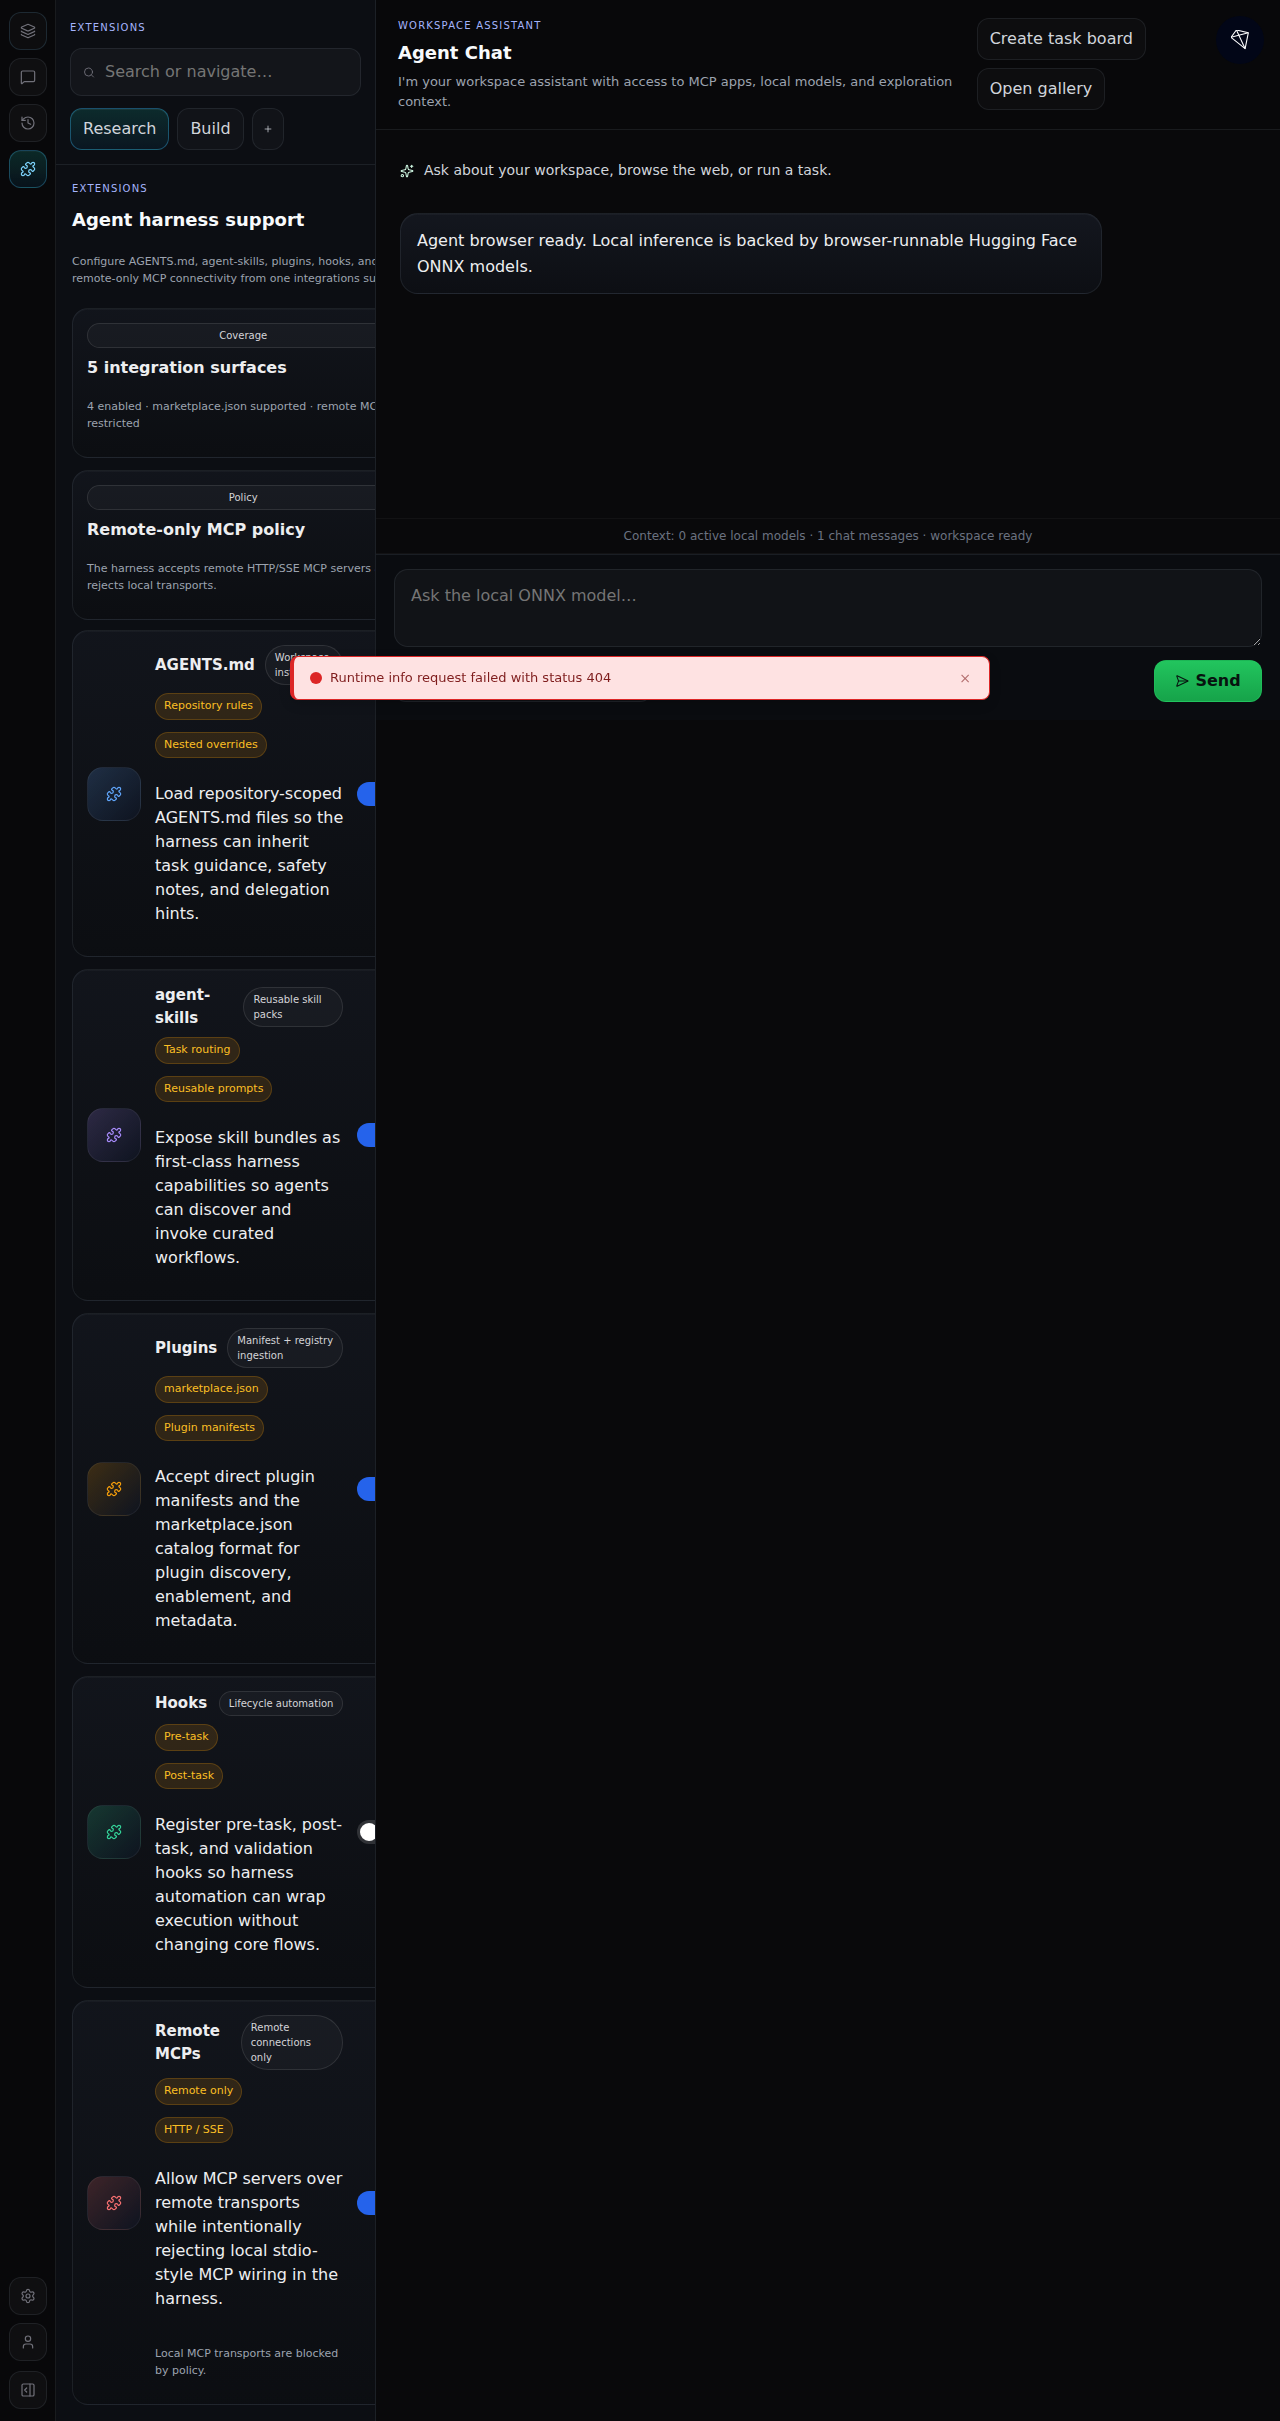
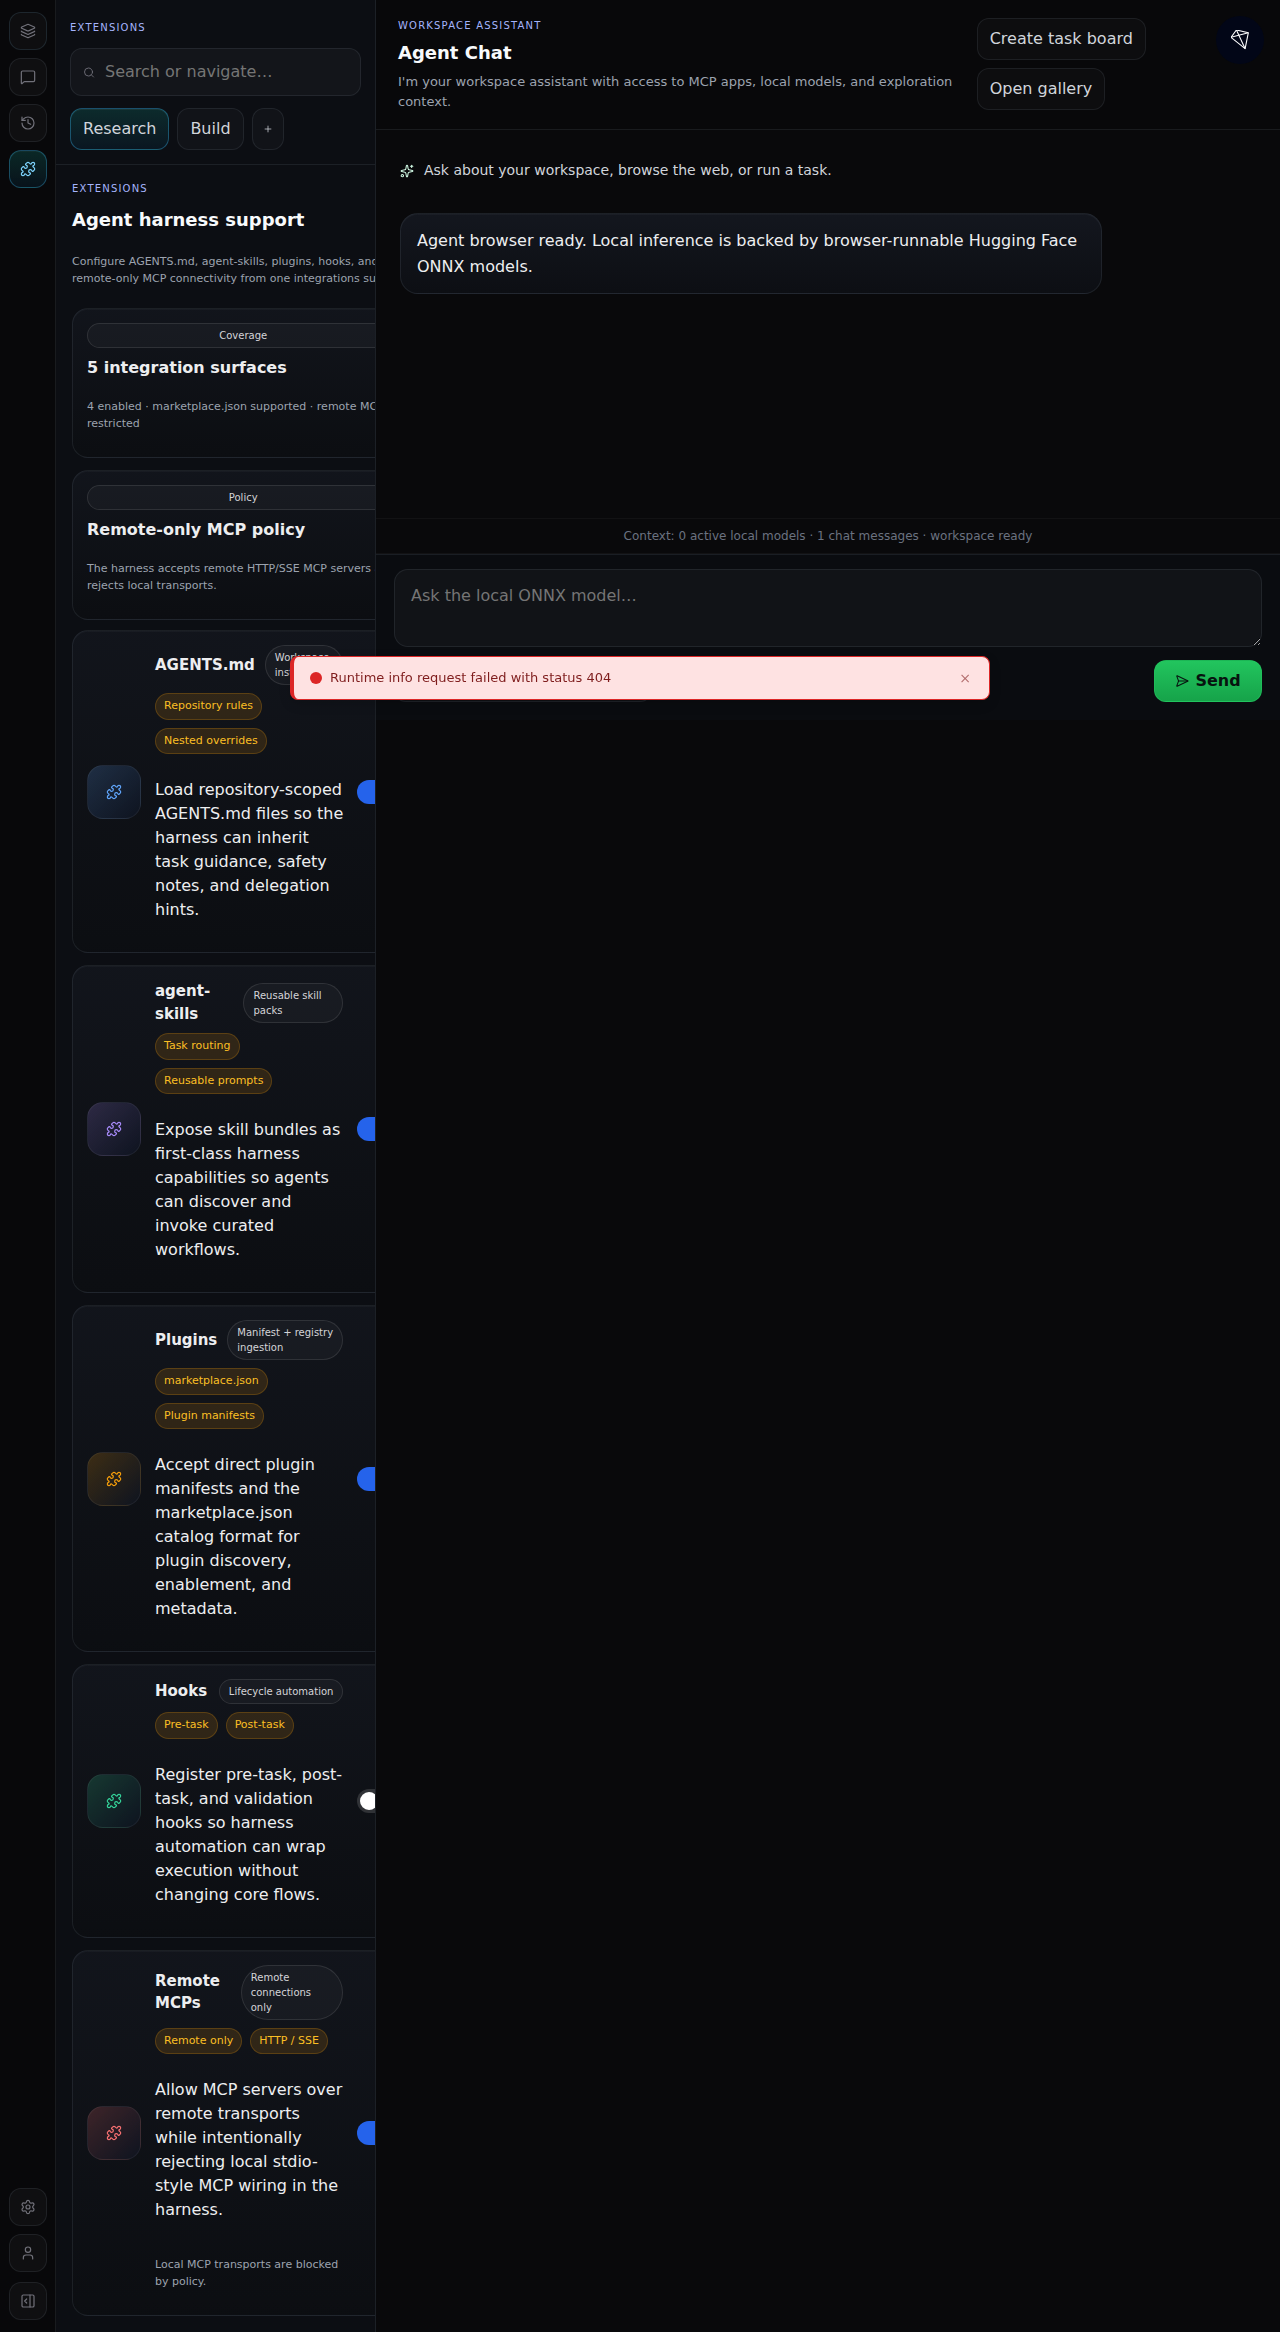
Tidy integrations layout styling
Agent-Logs-Url: https://github.com/Tyler-R-Kendrick/agent_harness/sessions/cfed4cb2-2cd5-4f9c-9167-cfbc93ddfe49

diff --git a/agent-browser/src/App.css b/agent-browser/src/App.css
@@ -368,12 +368,17 @@ button:focus-visible, input:focus-visible, textarea:focus-visible, select:focus-
   align-items: center;
   padding: 14px;
 }
-.integration-overview, .integration-list, .extension-badges {
+.integration-overview, .integration-list {
   display: grid;
   gap: 12px;
 }
 .integration-overview {
   grid-template-columns: repeat(auto-fit, minmax(180px, 1fr));
+}
+.extension-badges {
+  display: flex;
+  flex-wrap: wrap;
+  gap: 8px;
 }
 .integration-summary-card {
   display: grid;
